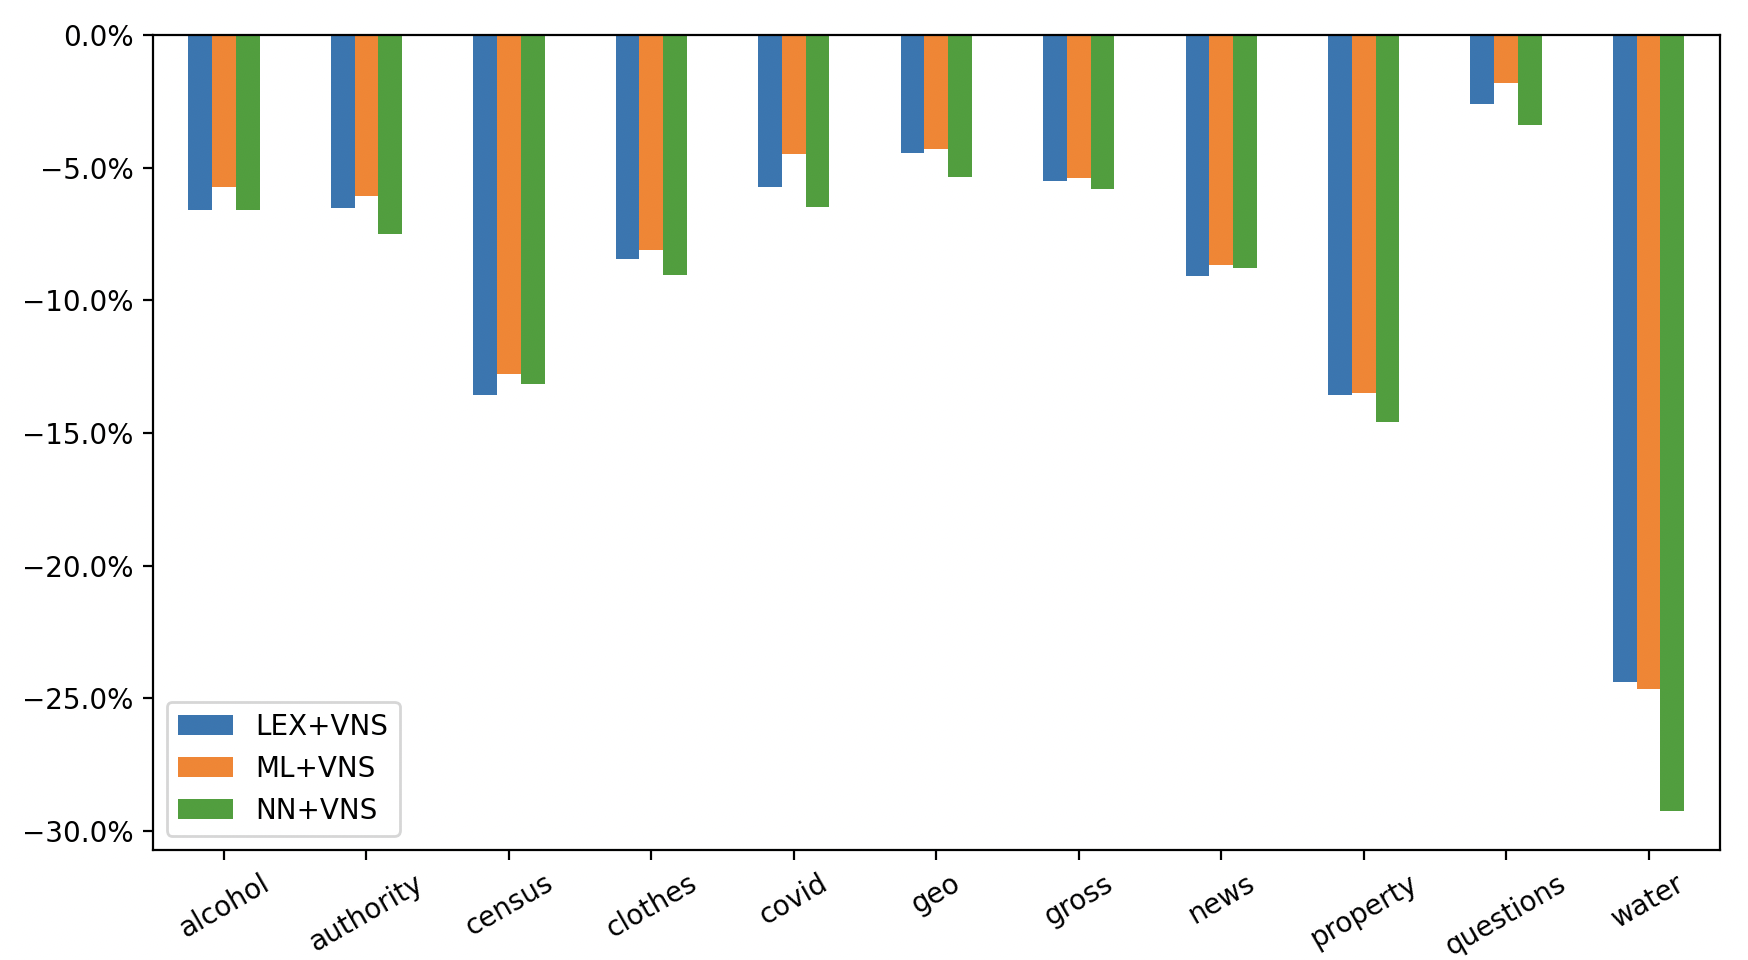
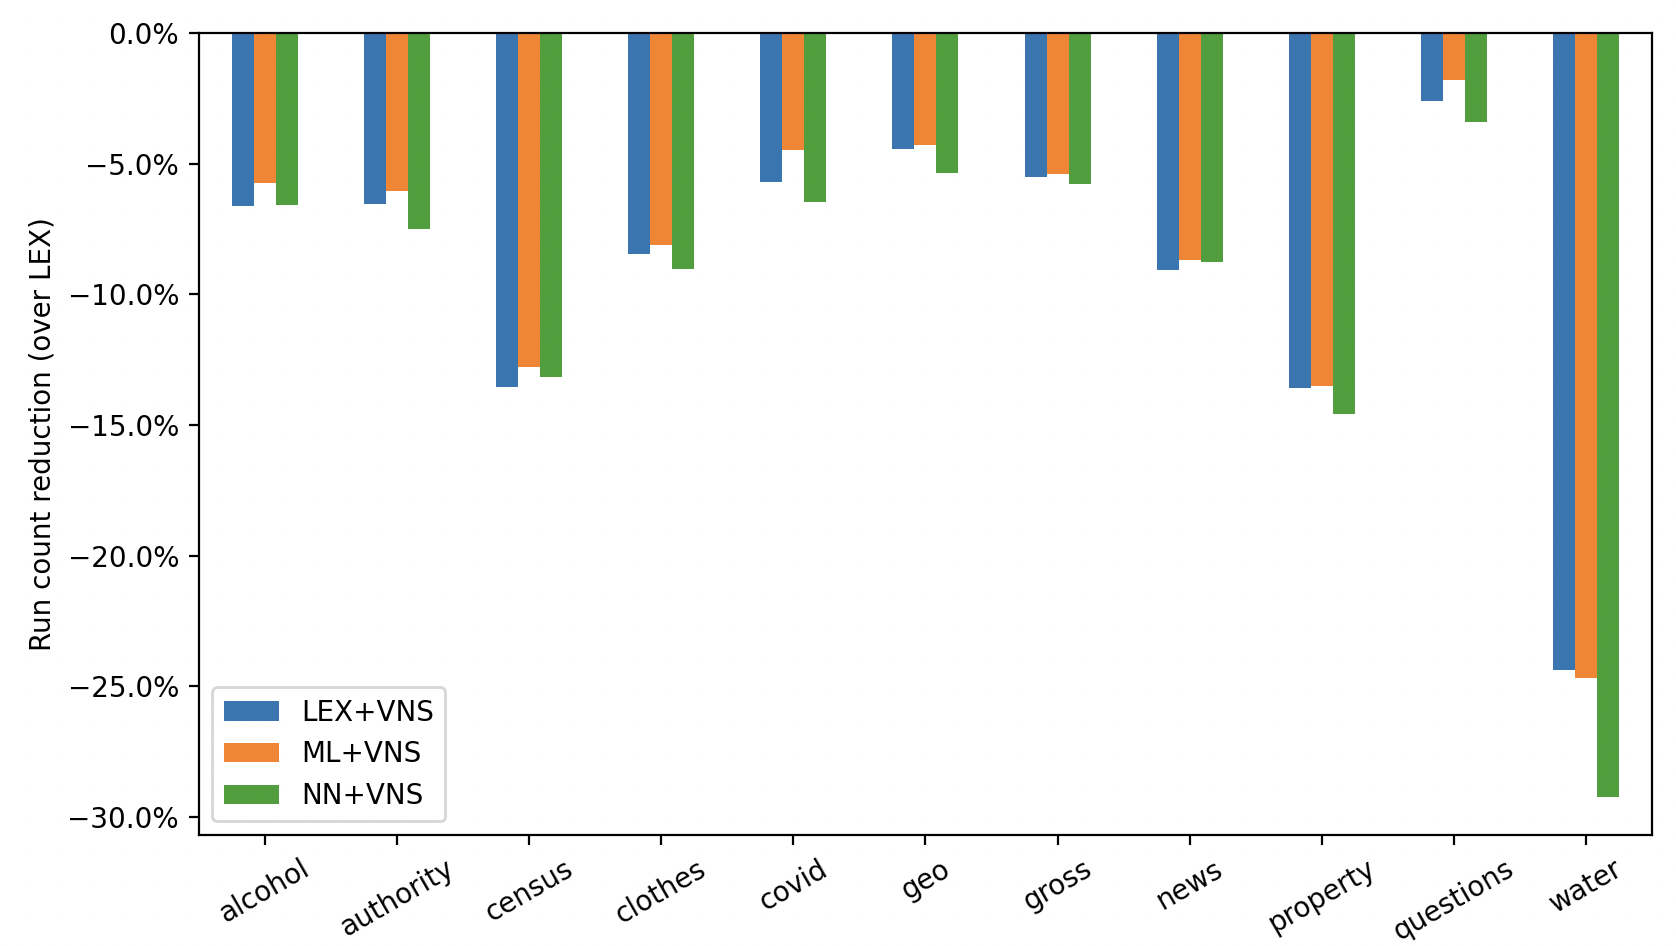
Added ylabel to reduction plot

diff --git a/plot_reduction.py b/plot_reduction.py
@@ -19,13 +19,13 @@ def plot(input_file):
         rcr = gmean(lex[m]) - 1
         print("{:10}{:.2f} %".format(m, rcr*100))
 
-    #matplotlib.rcParams.update({'font.size': 16})
-
     r.columns.name = ""
+    #matplotlib.rcParams.update({'font.size': 16})
     #plt.style.use("dark_background")
     (lex[methods] - 1).plot.bar()
     plt.xticks(rotation=30)
     plt.gca().yaxis.set_major_formatter(PercentFormatter(1))
+    plt.ylabel("Run count reduction (over LEX)")
     plt.show()
 
 if __name__ == "__main__":
